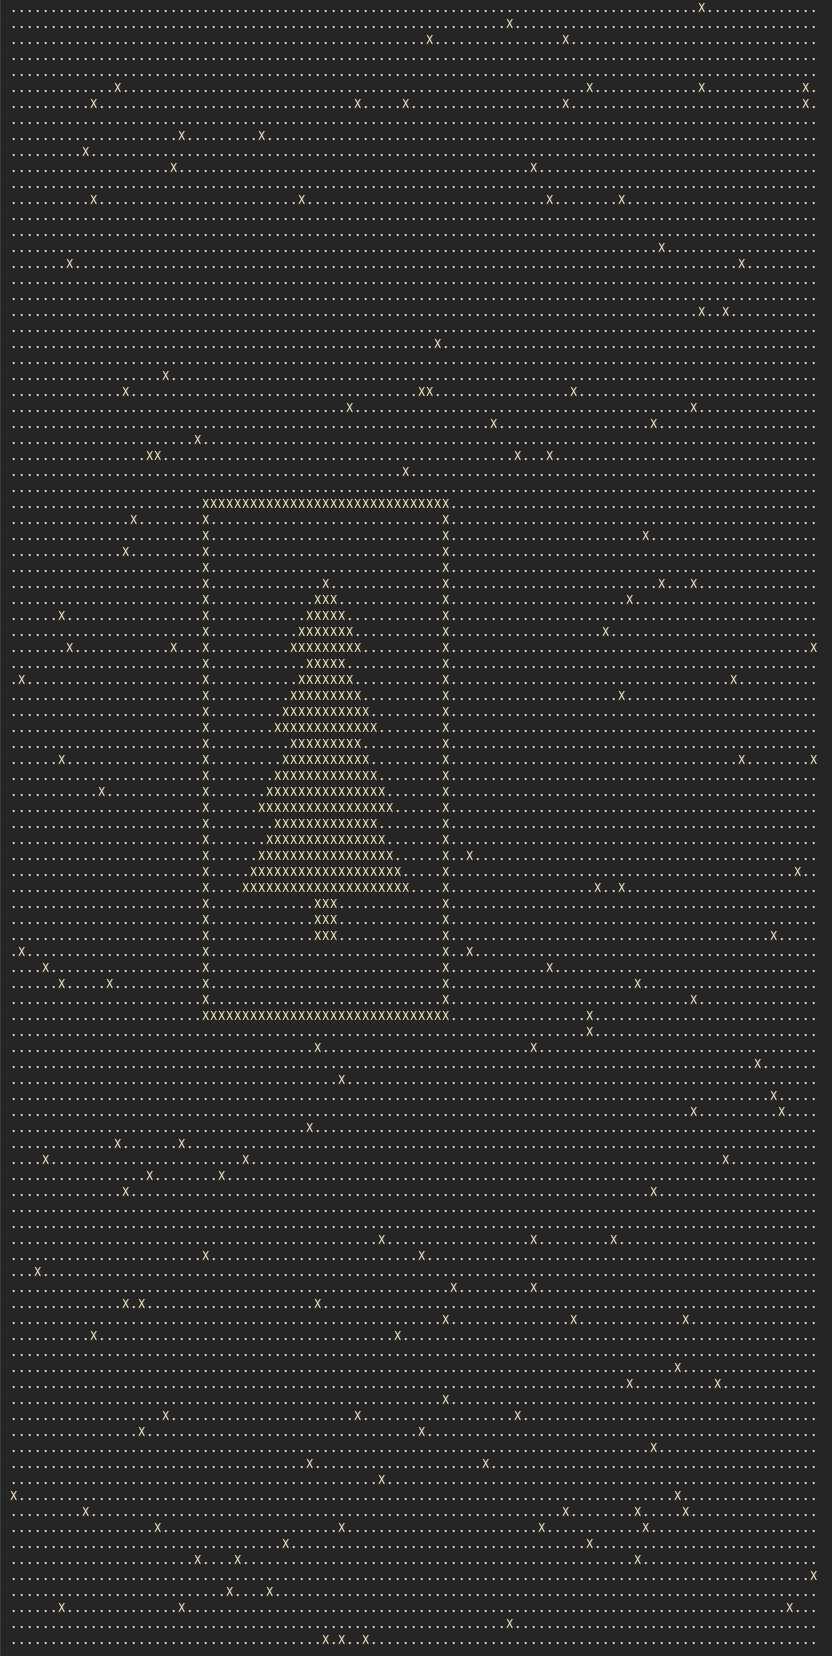
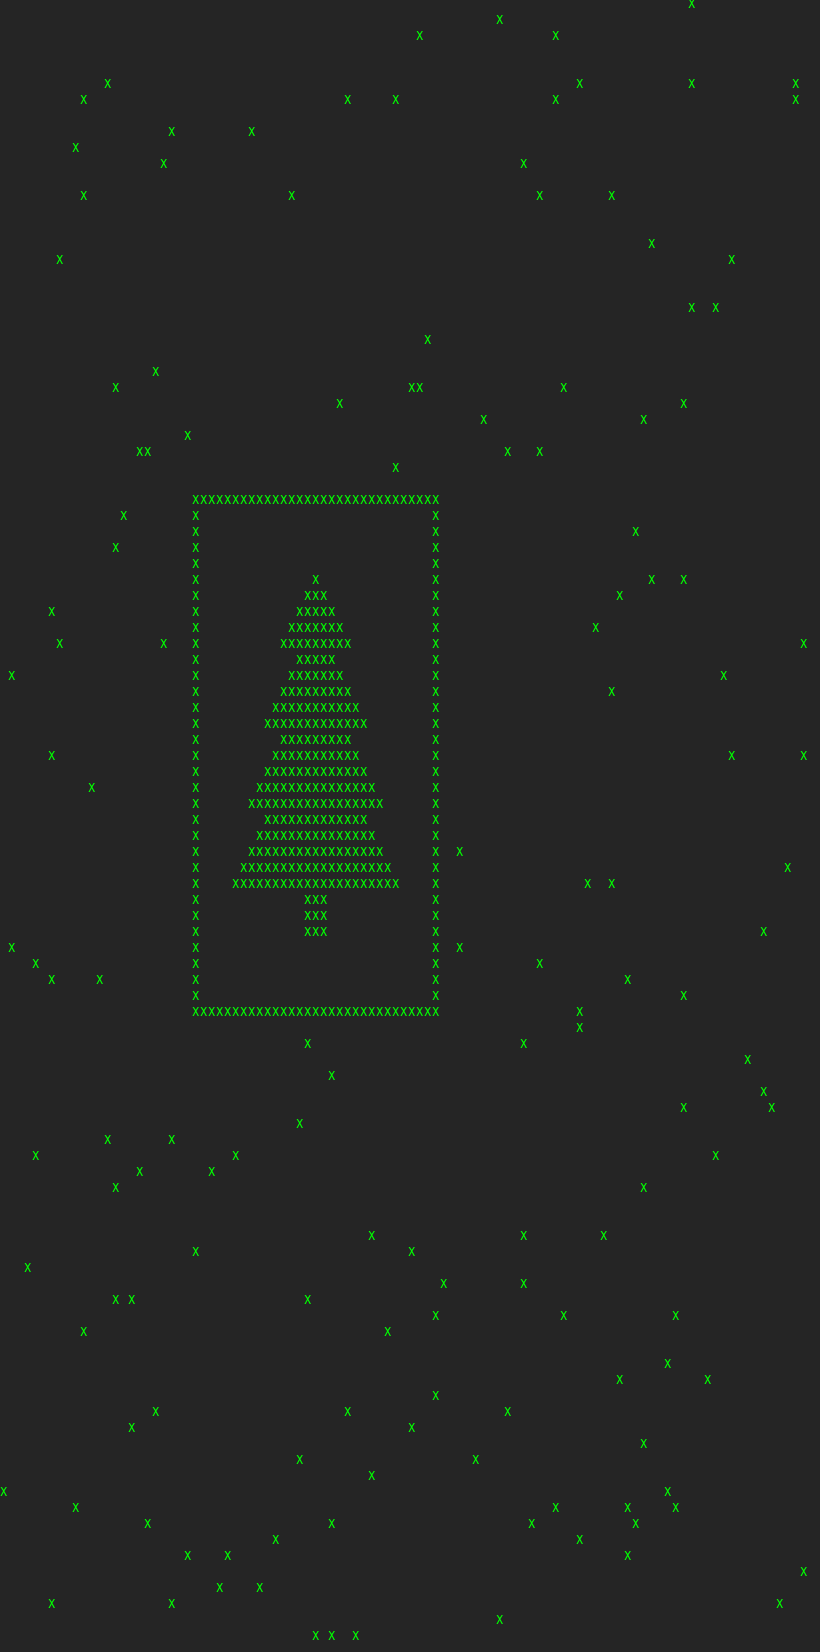
Use set; green tree

diff --git a/2024/14.rb b/2024/14.rb
@@ -63,10 +63,10 @@ loop do
     [x, y, dx, dy]
   end
 
-  other_coords = coords.map { _1.first(2) }
+  other_coords = coords.each_with_object(Set.new) { |elem, set| set << elem.first(2) }
   if coords.any? { |(x, y, dx, dy)|
-    other_coords.include?([x+1, y]) && other_coords.include?([x+2, y]) && other_coords.include?([x+3, y]) && other_coords.include?([x+4, y]) &&
-    other_coords.include?([x, y+1]) && other_coords.include?([x, y+2]) && other_coords.include?([x, y+3]) && other_coords.include?([x, y+4])
+    other_coords.include?([x+1, y]) && other_coords.include?([x+2, y]) && other_coords.include?([x+3, y]) &&
+    other_coords.include?([x, y+1]) && other_coords.include?([x, y+2]) && other_coords.include?([x, y+3])
   }
     puts "Part 2"
     puts seconds
@@ -78,12 +78,12 @@ map = []
 height.times do |y|
   map[y] = []
   width.times do |x|
-    map[y][x] = "."
+    map[y][x] = " "
   end
 end
 
 coords.map do |(x, y, _dx, _dy)|
-  map[y][x] = "X"
+  map[y][x] = "\e[38;2;0;255;0mX\e[38;2;255;255;255m"
 end
 
 puts map.map(&:join).join("\n")
